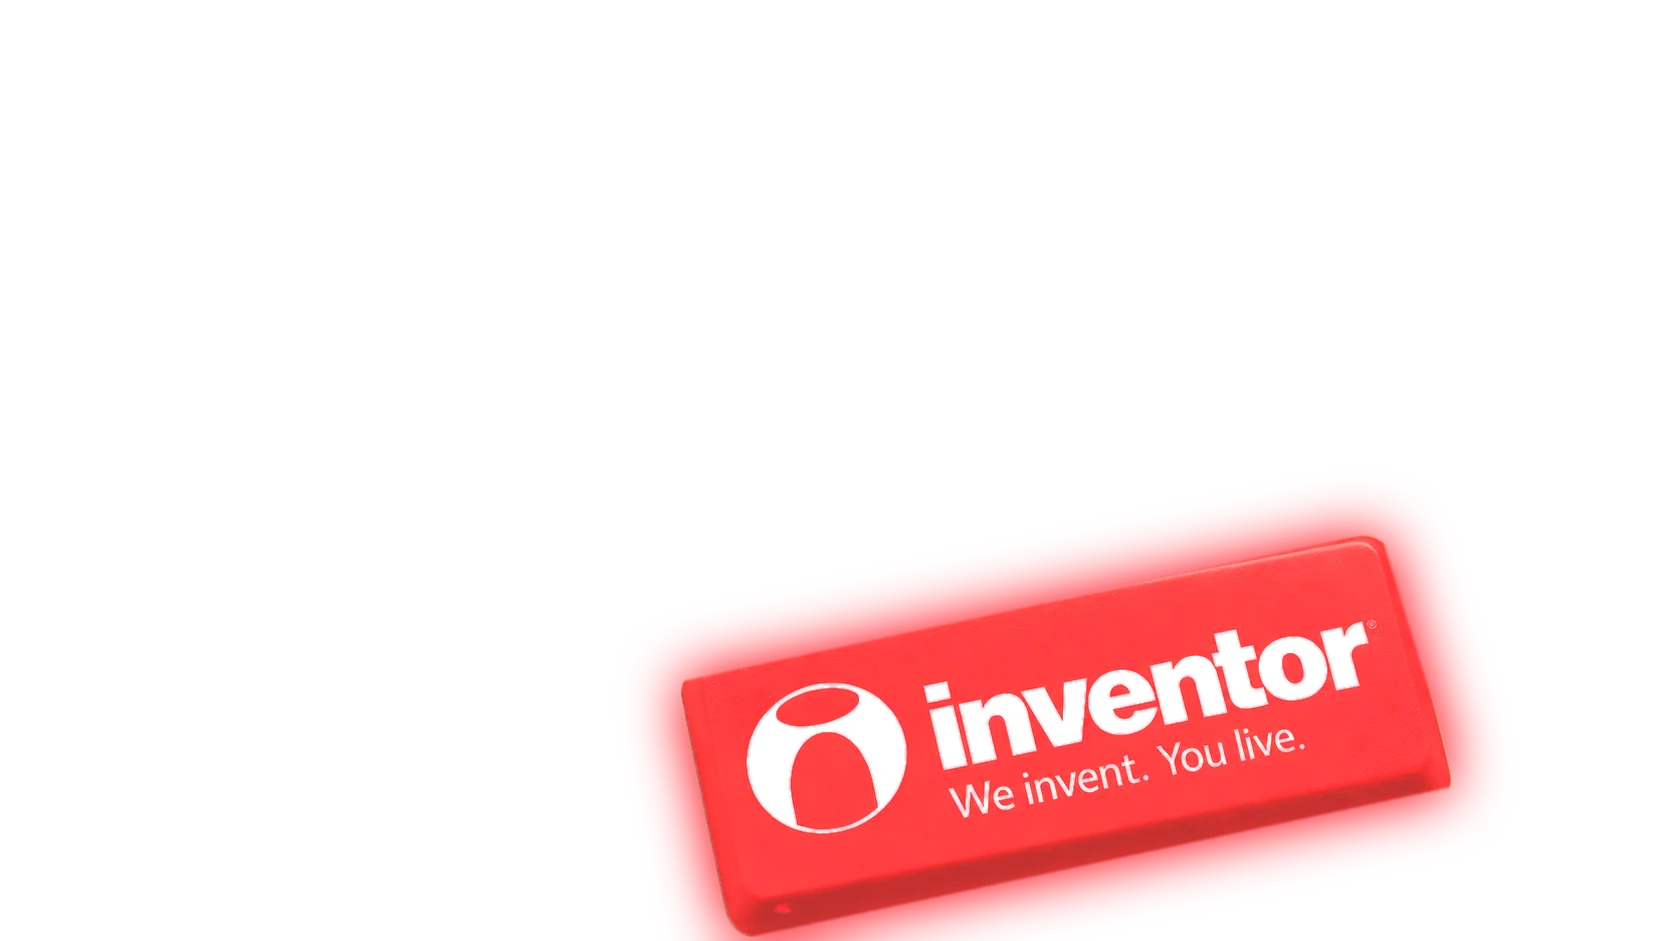
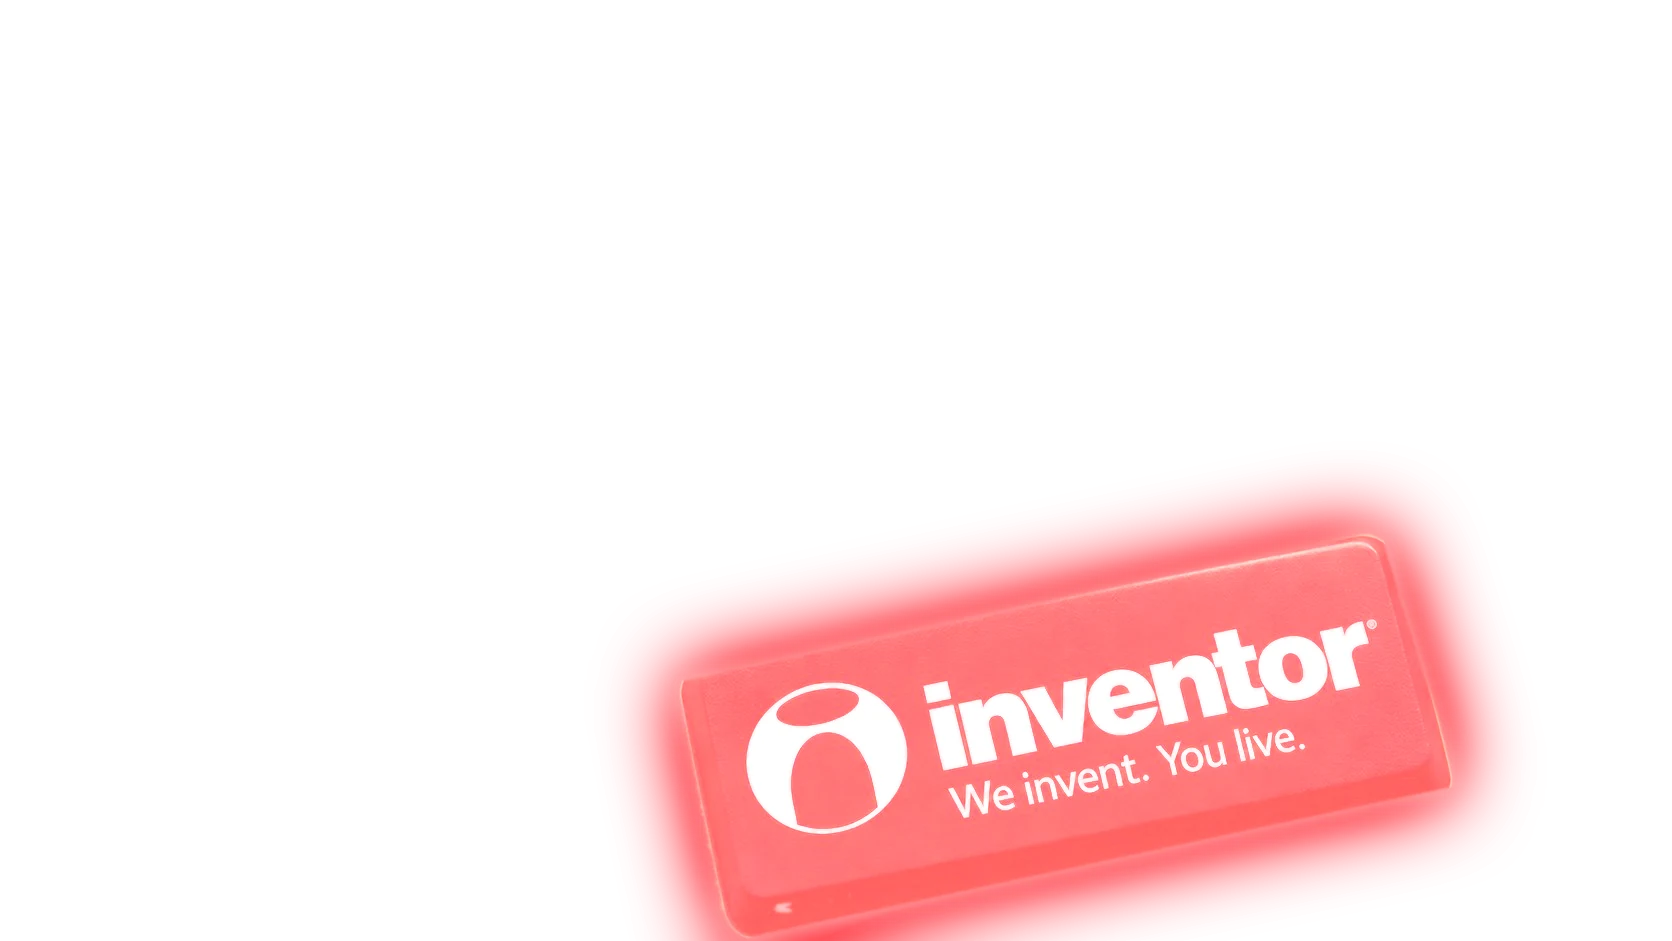
ft1

Changed region(s): [[0.3732, 0.4931, 0.9019, 1.0]]

diff --git a/welcome-stores-thessaloniki-2026/assets/css/v5.css b/welcome-stores-thessaloniki-2026/assets/css/v5.css
@@ -161,9 +161,9 @@
 
 /* τεχνολογίες: 4 πλακίδια με κινούμενα εικονίδια */
 .t4 .grid{left:110px;right:210px;top:330px;bottom:130px;grid-template-columns:repeat(4,1fr)}
-.t4 .ptile .front{justify-content:flex-end;padding-bottom:34px}
-.t4 .aico{flex:1;width:100%;min-height:0;display:grid;place-items:center;margin-bottom:18px}
-.t4 .aico img{max-width:72%;max-height:100%;width:auto;height:auto;object-fit:contain;filter:drop-shadow(0 18px 24px rgba(0,0,0,.45))}
+.t4 .ptile .front{justify-content:center;gap:26px}
+.t4 .aico{flex:none;width:250px;height:270px;display:flex;align-items:center;justify-content:center}
+.t4 .aico img{max-width:100%;max-height:100%;width:auto;height:auto;filter:drop-shadow(0 18px 24px rgba(0,0,0,.45))}
 .t4 .ptile h3{font-size:28px}
 .t4 .ptile .back li{font-size:21px}
 /* Eurovent: κείμενο αριστερά, πλακίδιο δεξιά (πίσω όψη: οφέλη) */
@@ -202,9 +202,9 @@
 /* «Γιατί να επιλέξω inventor» — αργό glow στο πλήκτρο με το λογότυπο */
 .lz13 .kbw{position:absolute;inset:0}
 .lz13 .ph-img{background-position:center}
-.lz13 .glow13{mix-blend-mode:screen;opacity:.15}
+.lz13 .glow13{mix-blend-mode:screen;opacity:.35}
 .lz13.active .glow13{animation:keyGlow 4.8s ease-in-out 1s infinite}
-@keyframes keyGlow{0%,100%{opacity:.15}50%{opacity:.85}}
+@keyframes keyGlow{0%,100%{opacity:.35}50%{opacity:1}}
 .lz13-vig{position:absolute;inset:0;background:radial-gradient(ellipse at 55% 55%,transparent 55%,rgba(5,6,10,.55));pointer-events:none}
 
 /* αξία συνεργασίας */
@@ -220,3 +220,29 @@
 .pr81 .tags,.pr83 .tags,.pr84 .tags{gap:18px;margin-top:54px;flex-wrap:nowrap}
 .pr81 .tag,.pr83 .tag,.pr84 .tag{font-size:20px;padding:22px 26px;border-radius:18px;white-space:nowrap}
 .pr81 .sp-r,.pr83 .sp-r,.pr84 .sp-r{left:1070px}
+
+/* Eurovent: 3D πλακέτα (όπως η εγγύηση) που γυρίζει με Page Down / hover / κλικ */
+.euv .grid{left:1040px;right:240px;top:170px;bottom:auto;height:640px;display:block}
+.euv .ev3{position:absolute;left:0;top:0;width:640px;height:637px;cursor:pointer}
+.euv .ev3 .float{position:absolute;inset:0;animation:wFloat5 7s ease-in-out infinite;perspective:1600px}
+.euv .ev3 .in{position:absolute;inset:0;transform-style:preserve-3d;transform:rotateY(-16deg) rotateX(9deg) rotateZ(-1.5deg);transition:transform 1.25s cubic-bezier(.3,1.2,.4,1)}
+.euv .ev3:hover .in,.euv .ev3.flipped .in{transform:rotateY(-16deg) rotateX(189deg) rotateZ(1.5deg)}
+.euv .ev3 .wedge{position:absolute;inset:0;border-radius:81px;transform:translate3d(calc(var(--z) * .45px),calc(var(--z) * 1px),calc(var(--z) * -1.3px));
+  background:linear-gradient(90deg,#b8b8bd,#f6f6f8 22%,#dcdce0 48%,#ffffff 70%,#c4c4c9);box-shadow:inset 0 0 0 1px rgba(255,255,255,.6)}
+.euv .ev3 .wedge.d{background:linear-gradient(90deg,#7d0910,#c21520 40%,#a80d16)}
+.euv .ev3 .wedge.s{background:#5a0409;filter:blur(1px)}
+.euv .ev3 .face,.euv .ev3:hover .face,.euv .ev3.flipped .face{position:absolute;inset:0;border-radius:81px;overflow:hidden;padding:0;border:0;backdrop-filter:none;-webkit-backdrop-filter:none;
+  backface-visibility:hidden;-webkit-backface-visibility:hidden;box-shadow:0 0 0 1px rgba(255,255,255,.18),0 18px 40px rgba(120,0,6,.45);transition:none}
+.euv .ev3 .face.front,.euv .ev3:hover .face.front,.euv .ev3.flipped .face.front{transform:translateZ(.5px);background:transparent}
+.euv .ev3 .face.front img{width:100%;height:100%;display:block;object-fit:cover}
+.euv .ev3 .face.front::before{content:"";position:absolute;inset:0;border-radius:inherit;pointer-events:none;z-index:2;
+  background:linear-gradient(170deg,rgba(255,255,255,.42) 0%,rgba(255,255,255,.10) 26%,transparent 42%,transparent 78%,rgba(0,0,0,.16) 100%)}
+.euv .ev3 .face.front::after{content:"";position:absolute;top:-30%;bottom:-30%;width:28%;left:-40%;z-index:3;pointer-events:none;transform:skewX(-22deg);
+  background:linear-gradient(90deg,transparent,rgba(255,255,255,.55),transparent);filter:blur(4px);animation:gloss5 4.8s ease-in-out infinite;inset:auto;top:-30%;bottom:-30%}
+.euv .ev3 .face.back,.euv .ev3:hover .face.back,.euv .ev3.flipped .face.back{transform:translate3d(5.4px,12px,-15px) rotateX(180deg);
+  background:radial-gradient(120% 140% at 15% 0%,#ff4b53 0%,#e3141e 38%,#a50c14 100%);display:flex;flex-direction:column;align-items:flex-start;justify-content:center;padding:56px 60px;text-align:left}
+.euv .ev3 .back .k{font-size:16px;opacity:.85;margin-bottom:16px}
+.euv .ev3 .back ul{list-style:none;display:flex;flex-direction:column;gap:14px}
+.euv .ev3 .back li{font-size:21px;line-height:1.4;font-weight:500;padding-left:26px;position:relative;color:#fff}
+.euv .ev3 .back li::before{content:"";position:absolute;left:0;top:10px;width:9px;height:9px;border-radius:50%;background:#fff}
+.ev3shadow{position:absolute;left:1080px;top:845px;width:560px;height:90px;border-radius:50%;background:radial-gradient(ellipse,rgba(255,40,50,.75),rgba(227,20,30,.25) 45%,transparent 72%);filter:blur(16px);animation:wShadow5 7s ease-in-out infinite}

diff --git a/welcome-stores-thessaloniki-2026/index.html b/welcome-stores-thessaloniki-2026/index.html
@@ -985,7 +985,8 @@
   <section class="slide pr74 ptiles euv" data-group="g1" data-cat="Οικιακά κλιματιστικά" data-notes="Page Down / hover / κλικ: το πλακίδιο γυρίζει και δείχνει τα οφέλη της πιστοποίησης.">
     <div class="head"><div class="eyebrow rv" style="--d:0">Η συνεργασία που χρειάζεστε – Πιστοποιήσεις</div><h2 class="h-lg rv" style="--d:150;margin-top:24px">Ό,τι <span class="em" style="--emd:800ms">προσθέτει αξία</span></h2>
       <p class="ev-txt rv" style="--d:600"><b>Πιστοποίηση EUROVENT:</b> εγγύηση αξιοπιστίας και διαφάνειας, με επαληθευμένη απόδοση, κατανάλωση και ενεργειακή κλάση, συμμόρφωση με ευρωπαϊκές απαιτήσεις και διεθνή πρότυπα, υπό συνεχή εποπτεία.</p></div>
-    <div class="grid"><div class="tile ptile rv" data-i="0" style="--d:450"><div class="face front"><img class="evimg" src="assets/img/lz/eurovent-tile.webp" alt="Eurovent Certified Performance"></div><div class="face back"><div class="k">Οφέλη της πιστοποίησης EUROVENT</div><ul><li>Διασφάλιση της απόδοσης και της αξιοπιστίας του προϊόντος.</li><li>Επιβεβαίωση πως τα πιστοποιημένα προϊόντα έχουν απόδοση, κατανάλωση και ενεργειακή κλάση που συνάδει με τα δηλωμένα δεδομένα του κατασκευαστή.</li><li>Βεβαιότητα ότι τα προϊόντα συμμορφώνονται με Ευρωπαϊκούς κανονισμούς και απαιτήσεις, καθώς και με διεθνώς αναγνωρισμένα πρότυπα και κώδικες.</li><li>Απόλυτη διαφάνεια, καθώς πρόκειται για μια διαδικασία που διατηρεί υψηλό επίπεδο απαιτήσεων, λόγω συνεχούς εποπτείας.</li></ul></div></div></div>
+    <div class="ev3shadow"></div>
+    <div class="grid"><div class="tile ptile ev3 rv zoom" data-i="0" style="--d:400"><div class="float"><div class="in"><i class="wedge d" style="--z:1"></i><i class="wedge" style="--z:2"></i><i class="wedge" style="--z:3"></i><i class="wedge" style="--z:4"></i><i class="wedge" style="--z:5"></i><i class="wedge" style="--z:6"></i><i class="wedge" style="--z:7"></i><i class="wedge" style="--z:8"></i><i class="wedge" style="--z:9"></i><i class="wedge" style="--z:10"></i><i class="wedge s" style="--z:11"></i><div class="face front"><img src="assets/img/lz/eurovent-card.webp" alt="Eurovent Certified Performance"></div><div class="face back"><div class="k">Οφέλη της πιστοποίησης EUROVENT</div><ul><li>Διασφάλιση της απόδοσης και της αξιοπιστίας του προϊόντος.</li><li>Επιβεβαίωση πως τα πιστοποιημένα προϊόντα έχουν απόδοση, κατανάλωση και ενεργειακή κλάση που συνάδει με τα δηλωμένα δεδομένα του κατασκευαστή.</li><li>Βεβαιότητα ότι τα προϊόντα συμμορφώνονται με Ευρωπαϊκούς κανονισμούς και απαιτήσεις, καθώς και με διεθνώς αναγνωρισμένα πρότυπα και κώδικες.</li><li>Απόλυτη διαφάνεια, καθώς πρόκειται για μια διαδικασία που διατηρεί υψηλό επίπεδο απαιτήσεων, λόγω συνεχούς εποπτείας.</li></ul></div></div></div></div></div>
   </section>
   <section class="slide pr75 sp" data-group="g1" data-cat="Οικιακά κλιματιστικά" data-notes="">
     <div class="sp-l">
